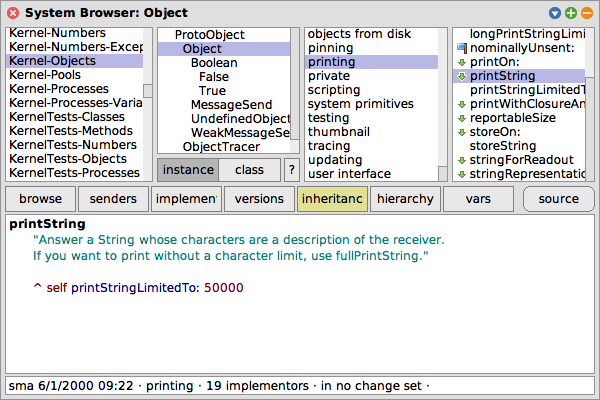
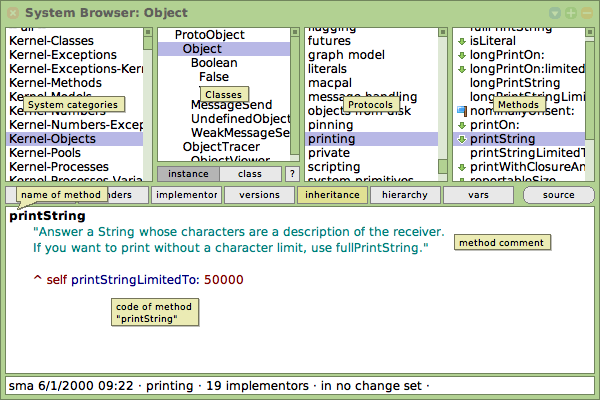
Update figure QuickTour/ClassBrowser2.png
Now with legend

diff --git a/QuickTour/QuickTour.tex b/QuickTour/QuickTour.tex
@@ -543,8 +543,29 @@ As we shall see, there are several interesting browsers available for \sq, but t
 \dothis{Open a browser by selecting \menu{World \go open \ldots \go class browser}, or by dragging a Browser from the \toolsflapind.}
 
 %%{SBESqueakPicture writeTo: './figures/ClassBrowser2.png' frame: #morphs using: [:helper |
-%%  Browser fullOnClass: Object selector: #printString.
-%%  "SBELabelRectangle new text: 'Classes'; center:" 
+%%	| class selector window codePane |
+%%	class := Object. selector := #printString.
+%%	Browser fullOnClass: class selector: selector.
+%%	window := helper world firstSubmorph.
+%%	
+%%	Dictionary new
+%%		at: class category put: 'System categories';
+%%		at: ('\s*' , class) asRegex put: 'Classes';
+%%		at: (class categoryForSelector: selector) put: 'Protocols';
+%%		at: selector put: 'Methods';
+%%		keysAndValuesDo: [:item :description |
+%%			(NewBalloonMorph
+%%				string: description for: (helper listMorphIncludingMatch: item in: window) owner)
+%%					popUp].
+%%	codePane := helper textMorphIn: window textMatchedBy: 'printString.*' asRegex.
+%%	(NewBalloonMorph string: 'name of method' for: codePane)
+%%			popUpAt: codePane topLeft + (10 @ 5).
+%%	(SBEBalloonMorph string: 'method comment' for: codePane)
+%%			popUpTaillessAt: (codePane bounds pointAtFraction: 0.93 @ 0.12).
+%%	(SBEBalloonMorph
+%%		string: ('code of method\"{1}"' withCRs format: {selector})
+%%		for: codePane)
+%%			popUpTaillessAt: (codePane bounds pointAtFraction: 1 / 3 @ (1 / 2)).
 %%]}
 \begin{figure}[htb]
 \ifluluelse
